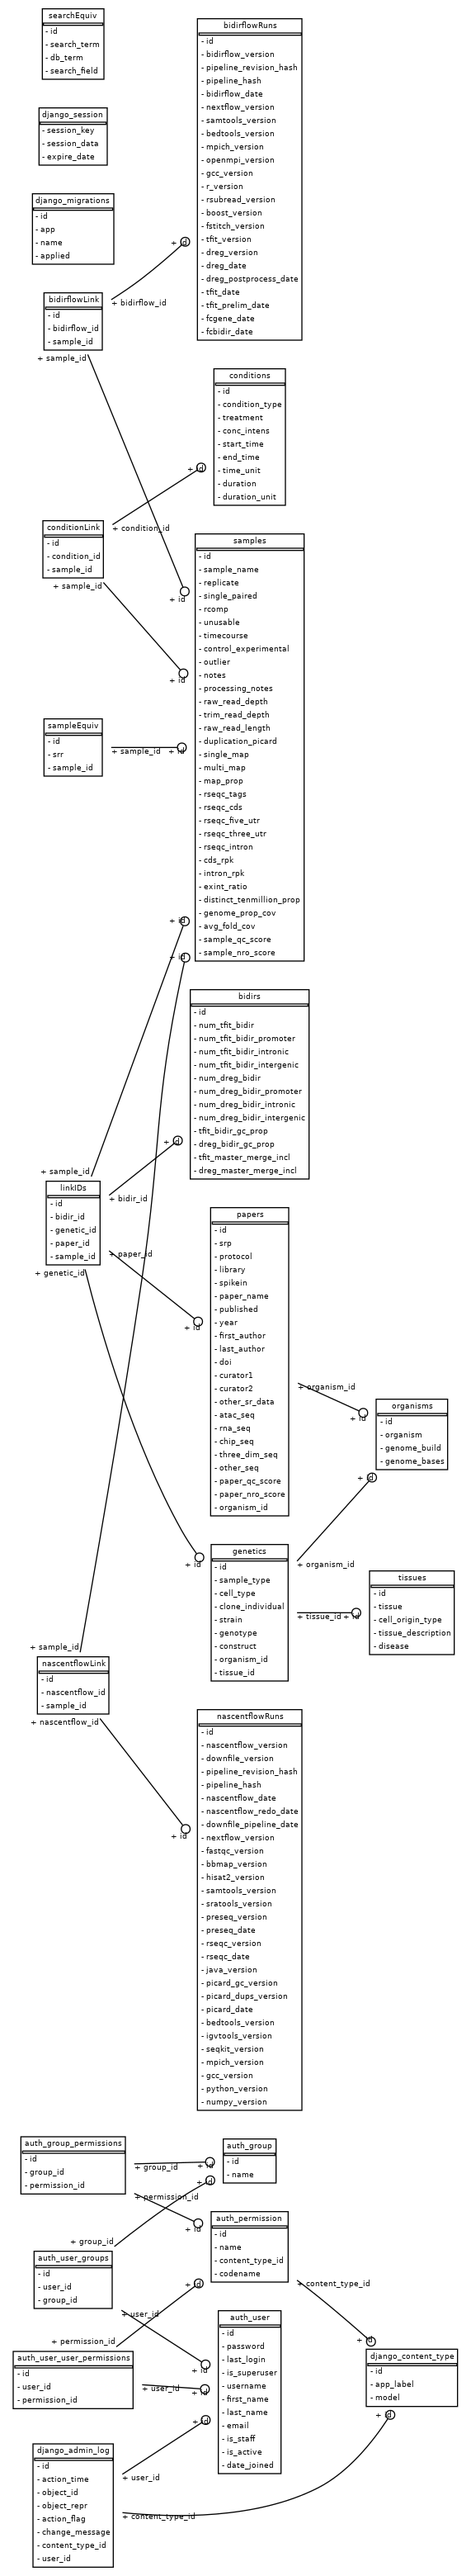
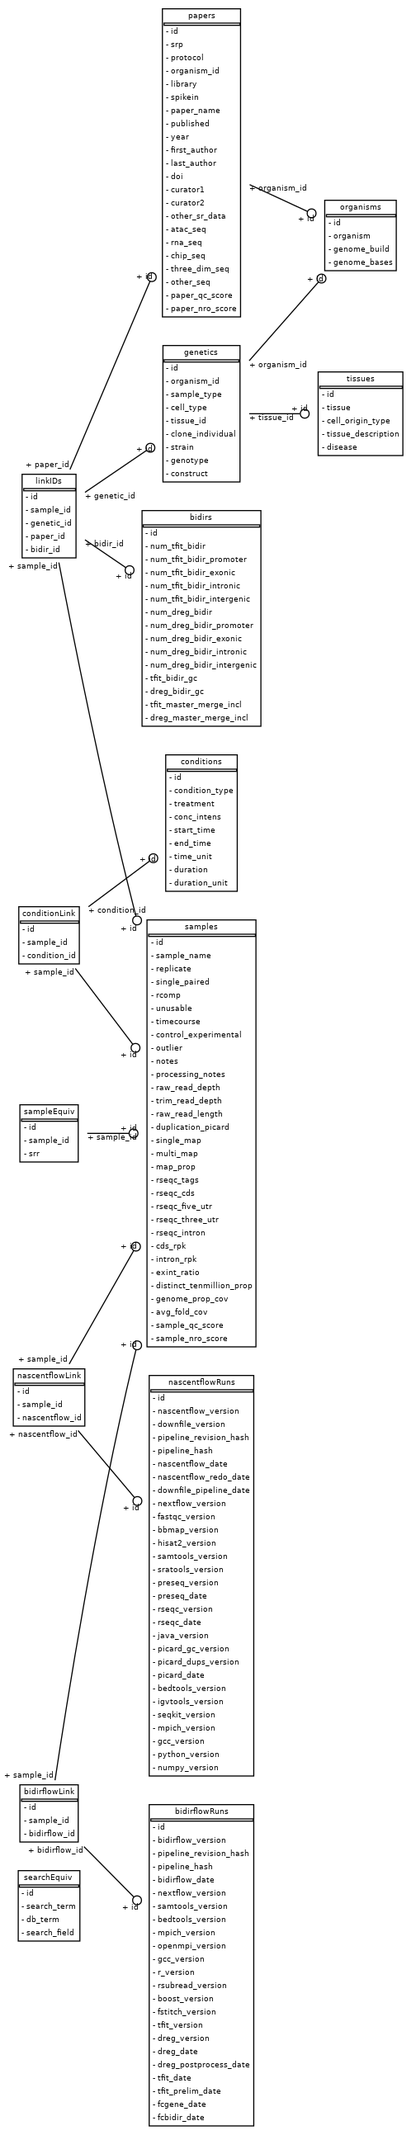
Updated schema

diff --git a/db_build/schema_create.py b/db_build/schema_create.py
@@ -25,19 +25,36 @@ import dbutils
 
 # Load config file and connect to db
 config = dbutils.load_config(
-    "/Shares/dbnascent/DBNascent-build/config/config_build.txt"
+    "/home/lsanford/DBNascent-build/config/config_build.txt"
 )
 db_url = config["file_locations"]["database"]
 creds = config["file_locations"]["credentials"]
 dbconnect = dbutils.dbnascentConnection(db_url, creds)
 
 # create the pydot graph object by autoloading all tables via a bound metadata object
-graph = create_schema_graph(metadata=MetaData(dbconnect.engine),
+graph = create_schema_graph(
+    tables = [
+      dborm.searchEquiv.__table__,
+      dborm.sampleEquiv.__table__,
+      dborm.linkIDs.__table__,
+      dborm.samples.__table__,
+      dborm.papers.__table__,
+      dborm.genetics.__table__,
+      dborm.organisms.__table__,
+      dborm.conditions.__table__,
+      dborm.tissues.__table__,
+      dborm.bidirs.__table__,
+      dborm.nascentflowRuns.__table__,
+      dborm.bidirflowRuns.__table__,
+      dborm.conditionLink.__table__,
+      dborm.nascentflowLink.__table__,
+      dborm.bidirflowLink.__table__,
+    ],
     show_datatypes=False, # The image would get nasty big if we'd show the datatypes
     show_indexes=False, # ditto for indexes
     rankdir='LR', # From left to right (instead of top to bottom)
-    concentrate=False # Don't try to join the relation lines together
+    concentrate=False, # Don't try to join the relation lines together
 )
-graph.write_png("/Shares/dbnascent/DBNascent-build/dbschema.png")
+graph.write_png("/home/lsanford/DBNascent-build/dbschema.png")
 
 # schema_create.py ends here
